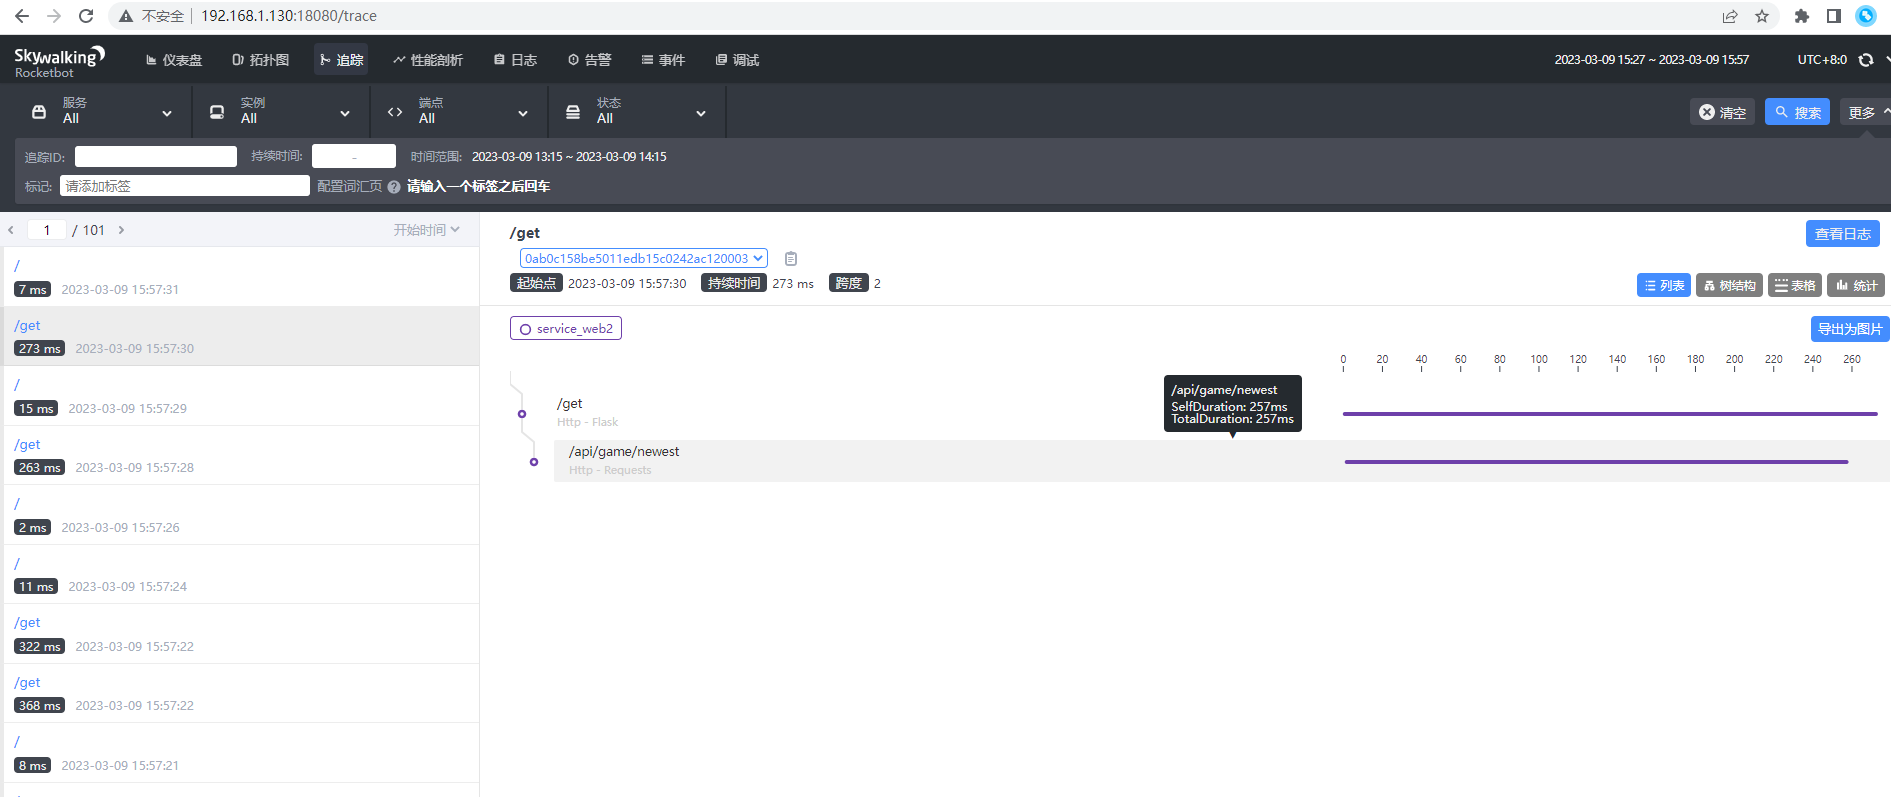
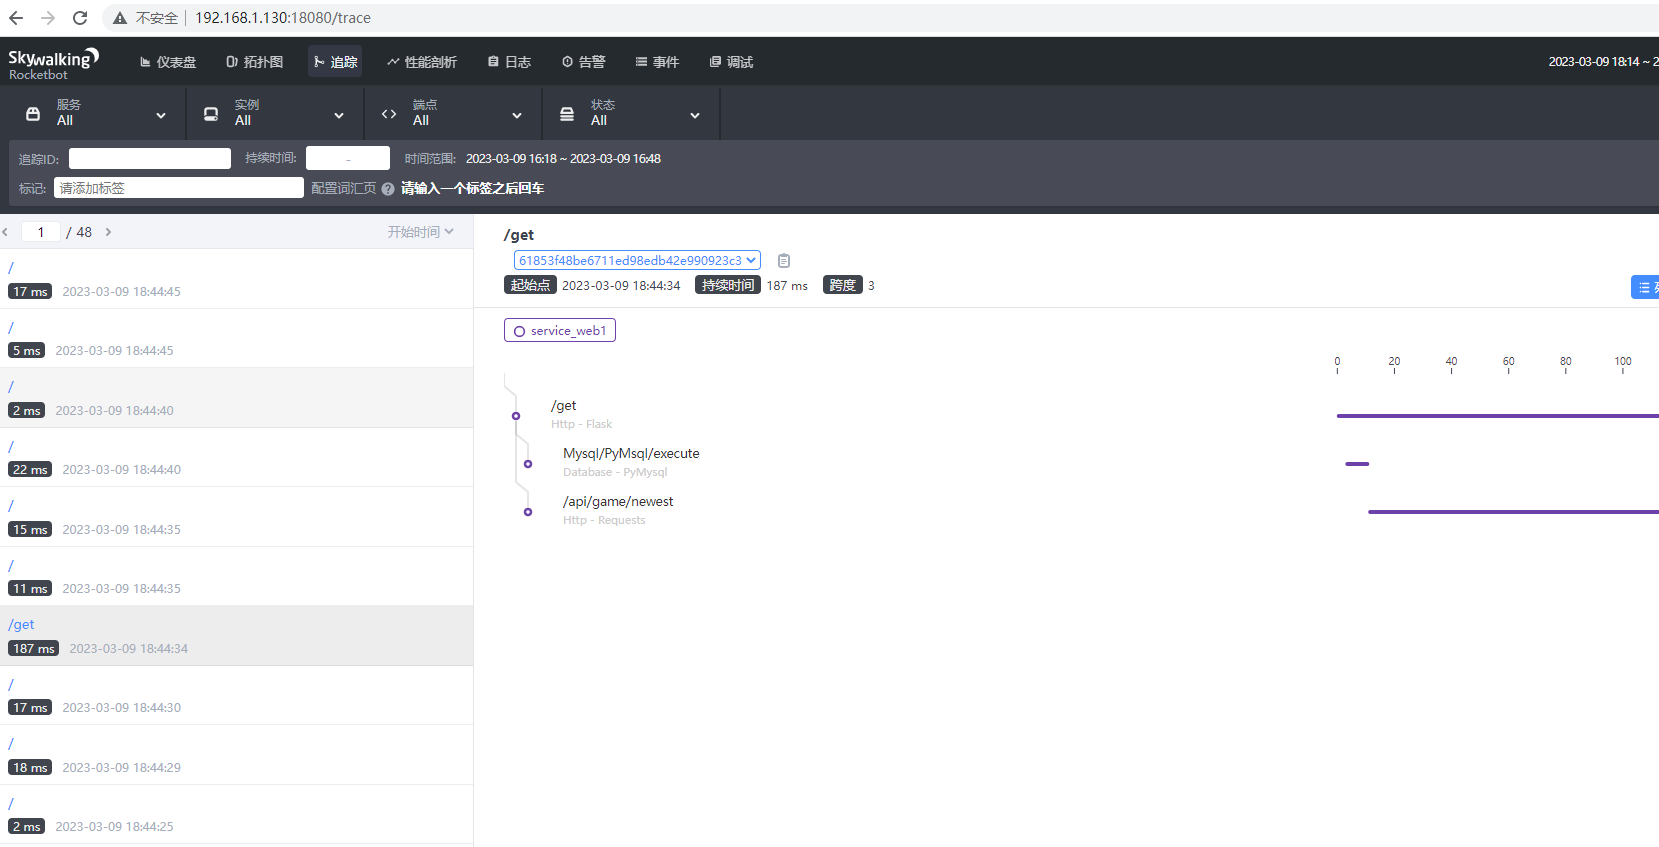
feat: 为skywalking增加一个mysql请求demo

diff --git a/web/workspace/mysql_demo.py b/web/workspace/mysql_demo.py
@@ -1,0 +1,21 @@
+import pymysql
+import os
+
+def test_mysql():
+    connection = pymysql.connect(
+        host='192.168.1.130',
+        database='37ww',
+        user='root',
+        password='QyYLa7P6FAyzih3P'
+    )
+    cursor = connection.cursor()
+    try:
+        sql = 'select * from cq_user limit 10'
+        cursor.execute(sql)
+        result = cursor.fetchall()
+        print(result)
+    except Exception as e:
+        print(e)
+
+    cursor.close()
+    connection.close()

diff --git a/web/workspace/main.py b/web/workspace/main.py
@@ -3,6 +3,7 @@ import sys
 import os
 from skywalking import agent, config
 import requests
+from mysql_demo import test_mysql
 
 ip = os.environ.get('HOST_IP', '127.0.0.1') # 当前主机IP
 port = int(sys.argv[1])
@@ -34,6 +35,7 @@ def healthy():
 
 @app.route("/get")
 def get():
+    test_mysql()
     response = requests.get('https://www.87cq.com/api/game/newest')
     return response.content
 

diff --git a/README.md b/README.md
@@ -100,11 +100,13 @@ server {
     追踪信息，可以追踪到http、mysql、redis等请求的延迟，如：/get请求的处理时间处理的时间(273ms)，以及其中调用外部接口使用的时间(257ms)
 ![avatar](images/sw_1.png)
 
-#### Skywalking API跨度信息
-    
+#### Skywalking 请求跨度信息
+    HTTP请求的信息
 ![avatar](images/sw_2.png)
+    Mysql查询请求的信息
+![avatar](images/sw_5.png)
 
-#### Skywalking Agent使用示例
+#### Skywalking Agent 使用示例
 
 ```python
 from flask import Flask
